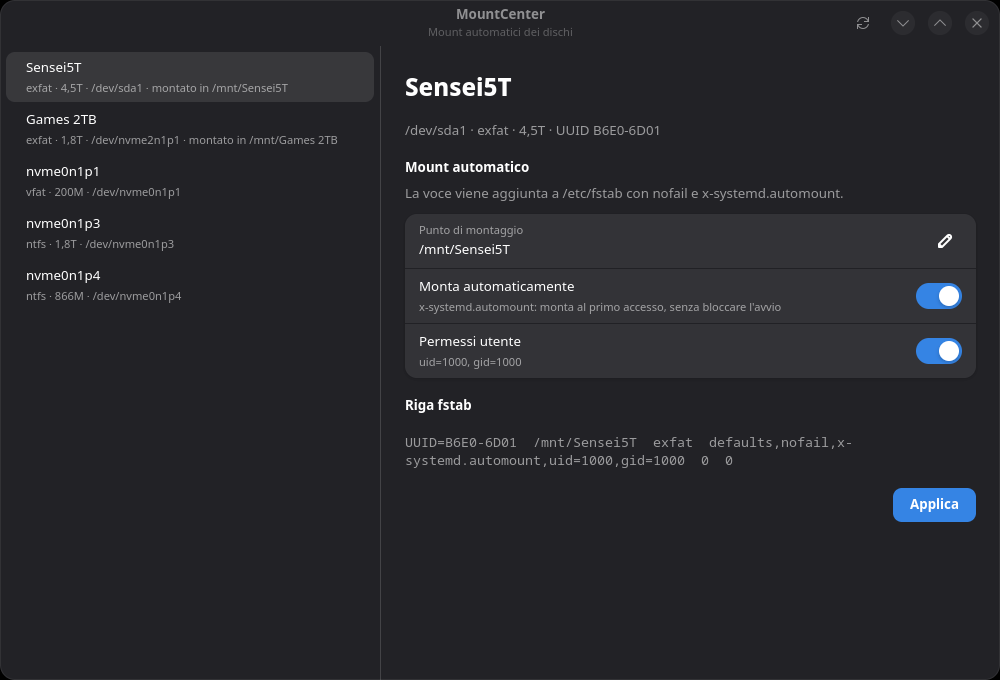
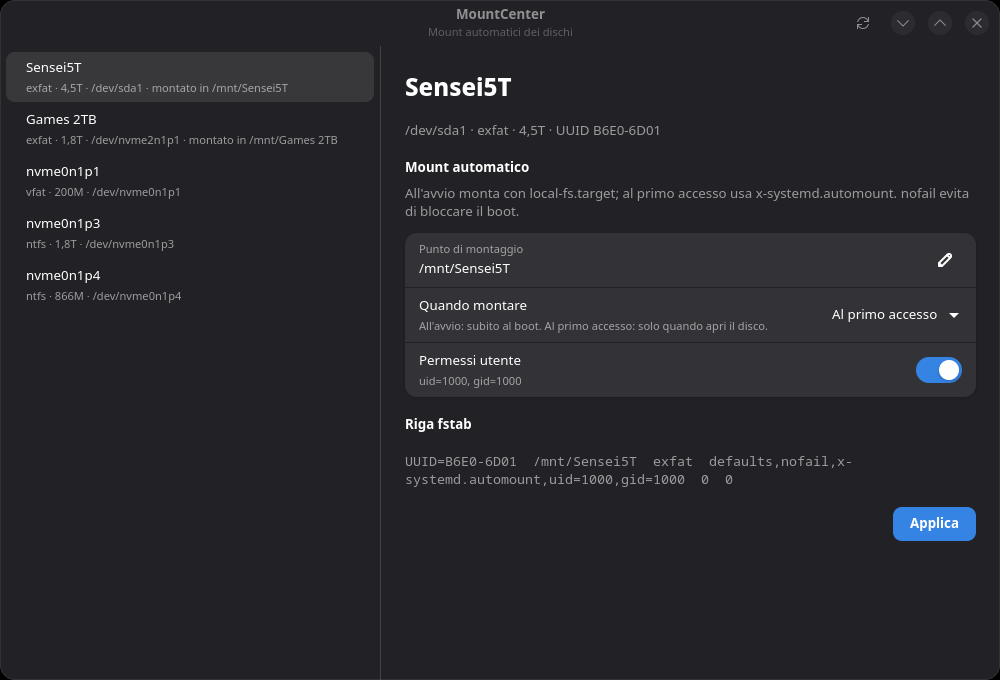
feat: choose boot mount or automount on first access

diff --git a/mountcenter/app.py b/mountcenter/app.py
@@ -188,7 +188,8 @@ class MountCenterWindow(Adw.ApplicationWindow):
             configured = find_by_uuid(self.fstab_entries, device.uuid or "")
             details = [device.fstype or "?", device.size or "", device.path]
             if configured:
-                details.append(f"fstab: {configured[0].mount_point}")
+                mode = "primo accesso" if configured[0].automount else "avvio"
+                details.append(f"fstab: {configured[0].mount_point} ({mode})")
             elif device.mountpoint:
                 details.append(f"montato in {device.mountpoint}")
             row = Adw.ActionRow(
@@ -197,9 +198,13 @@ class MountCenterWindow(Adw.ApplicationWindow):
             )
             row.set_activatable(True)
             row.device = device
-            if configured and configured[0].automount:
-                icon = Gtk.Image.new_from_icon_name("emblem-ok-symbolic")
-                icon.set_tooltip_text("Mount automatico configurato")
+            if configured:
+                if configured[0].automount:
+                    icon = Gtk.Image.new_from_icon_name("emblem-ok-symbolic")
+                    icon.set_tooltip_text("Automount al primo accesso")
+                else:
+                    icon = Gtk.Image.new_from_icon_name("drive-harddisk-symbolic")
+                    icon.set_tooltip_text("Montato all'avvio")
                 row.add_prefix(icon)
             self.device_list.append(row)
             first_row = first_row or row
@@ -231,7 +236,8 @@ class MountCenterWindow(Adw.ApplicationWindow):
         group = Adw.PreferencesGroup()
         group.set_title("Mount automatico")
         group.set_description(
-            "La voce viene aggiunta a /etc/fstab con nofail e x-systemd.automount."
+            "All'avvio monta con local-fs.target; al primo accesso usa "
+            "x-systemd.automount. nofail evita di bloccare il boot."
         )
 
         self.mount_row = Adw.EntryRow(title="Punto di montaggio")
@@ -242,15 +248,18 @@ class MountCenterWindow(Adw.ApplicationWindow):
         self.mount_row.connect("notify::text", lambda *_: self._update_preview(device))
         group.add(self.mount_row)
 
-        self.automount_row = Adw.SwitchRow(title="Monta automaticamente")
-        self.automount_row.set_subtitle(
-            "x-systemd.automount: monta al primo accesso, senza bloccare l'avvio"
+        self.mode_row = Adw.ComboRow(title="Quando montare")
+        self.mode_row.set_subtitle(
+            "All'avvio: subito al boot. Al primo accesso: solo quando apri il disco."
         )
-        self.automount_row.set_active(
-            configured[0].automount if configured else True
+        self.mode_row.set_model(
+            Gtk.StringList.new(["All'avvio", "Al primo accesso"])
         )
-        self.automount_row.connect("notify::active", lambda *_: self._update_preview(device))
-        group.add(self.automount_row)
+        self.mode_row.set_selected(
+            1 if not configured or configured[0].automount else 0
+        )
+        self.mode_row.connect("notify::selected", lambda *_: self._update_preview(device))
+        group.add(self.mode_row)
 
         self.perm_row = Adw.SwitchRow(title="Permessi utente")
         self.perm_row.set_subtitle(f"uid={os.getuid()}, gid={os.getgid()}")
@@ -273,6 +282,19 @@ class MountCenterWindow(Adw.ApplicationWindow):
         self.preview.set_wrap(True)
         self.preview.set_xalign(0)
         self.detail_box.append(self.preview)
+
+        if configured and configured[0].passno != 0 and device.fstype in USER_PERM_FSTYPES:
+            warning = Gtk.Label(
+                label=(
+                    f"Attenzione: passno {configured[0].passno} attiva fsck su "
+                    f"{device.fstype}. Per questi filesystem usa 0 0: fsck può "
+                    "rallentare l'avvio o il primo accesso."
+                )
+            )
+            warning.add_css_class("dim-label")
+            warning.set_wrap(True)
+            warning.set_xalign(0)
+            self.detail_box.append(warning)
 
         self.apply_button = Gtk.Button()
         self.apply_button.add_css_class("suggested-action")
@@ -298,7 +320,7 @@ class MountCenterWindow(Adw.ApplicationWindow):
             device.fstype or "",
             uid=os.getuid() if permissions else None,
             gid=os.getgid() if permissions else None,
-            automount=self.automount_row.get_active(),
+            automount=self.mode_row.get_selected() == 1,
         )
 
     def _update_preview(self, device: Device) -> None:
@@ -332,7 +354,7 @@ class MountCenterWindow(Adw.ApplicationWindow):
         ]
         if permissions:
             command += ["--uid", str(os.getuid()), "--gid", str(os.getgid())]
-        if not self.automount_row.get_active():
+        if self.mode_row.get_selected() == 0:
             command.append("--no-automount")
 
         try:

diff --git a/tests/test_helper.py b/tests/test_helper.py
@@ -80,6 +80,17 @@ class HelperTest(unittest.TestCase):
             "# /etc/fstab di test\nUUID=ROOT  /  btrfs  subvol=root  0  0\n",
         )
 
+    def test_boot_mount_has_no_automount(self):
+        entry = build_entry(
+            "FE7B-D8D1", "/mnt/boot-mount", "exfat", automount=False
+        )
+        helper.apply(entry, fstab_path=self.fstab, verify_device=False)
+        text = Path(self.fstab).read_text(encoding="utf-8")
+        last = text.strip().splitlines()[-1]
+        self.assertIn("/mnt/boot-mount", last)
+        self.assertNotIn("x-systemd.automount", last)
+        self.assertTrue(last.endswith("  0  0"), last)
+
     def test_remove_unknown_uuid(self):
         with self.assertRaises(helper.HelperError):
             helper.remove(uuid="NOPE", fstab_path=self.fstab)
